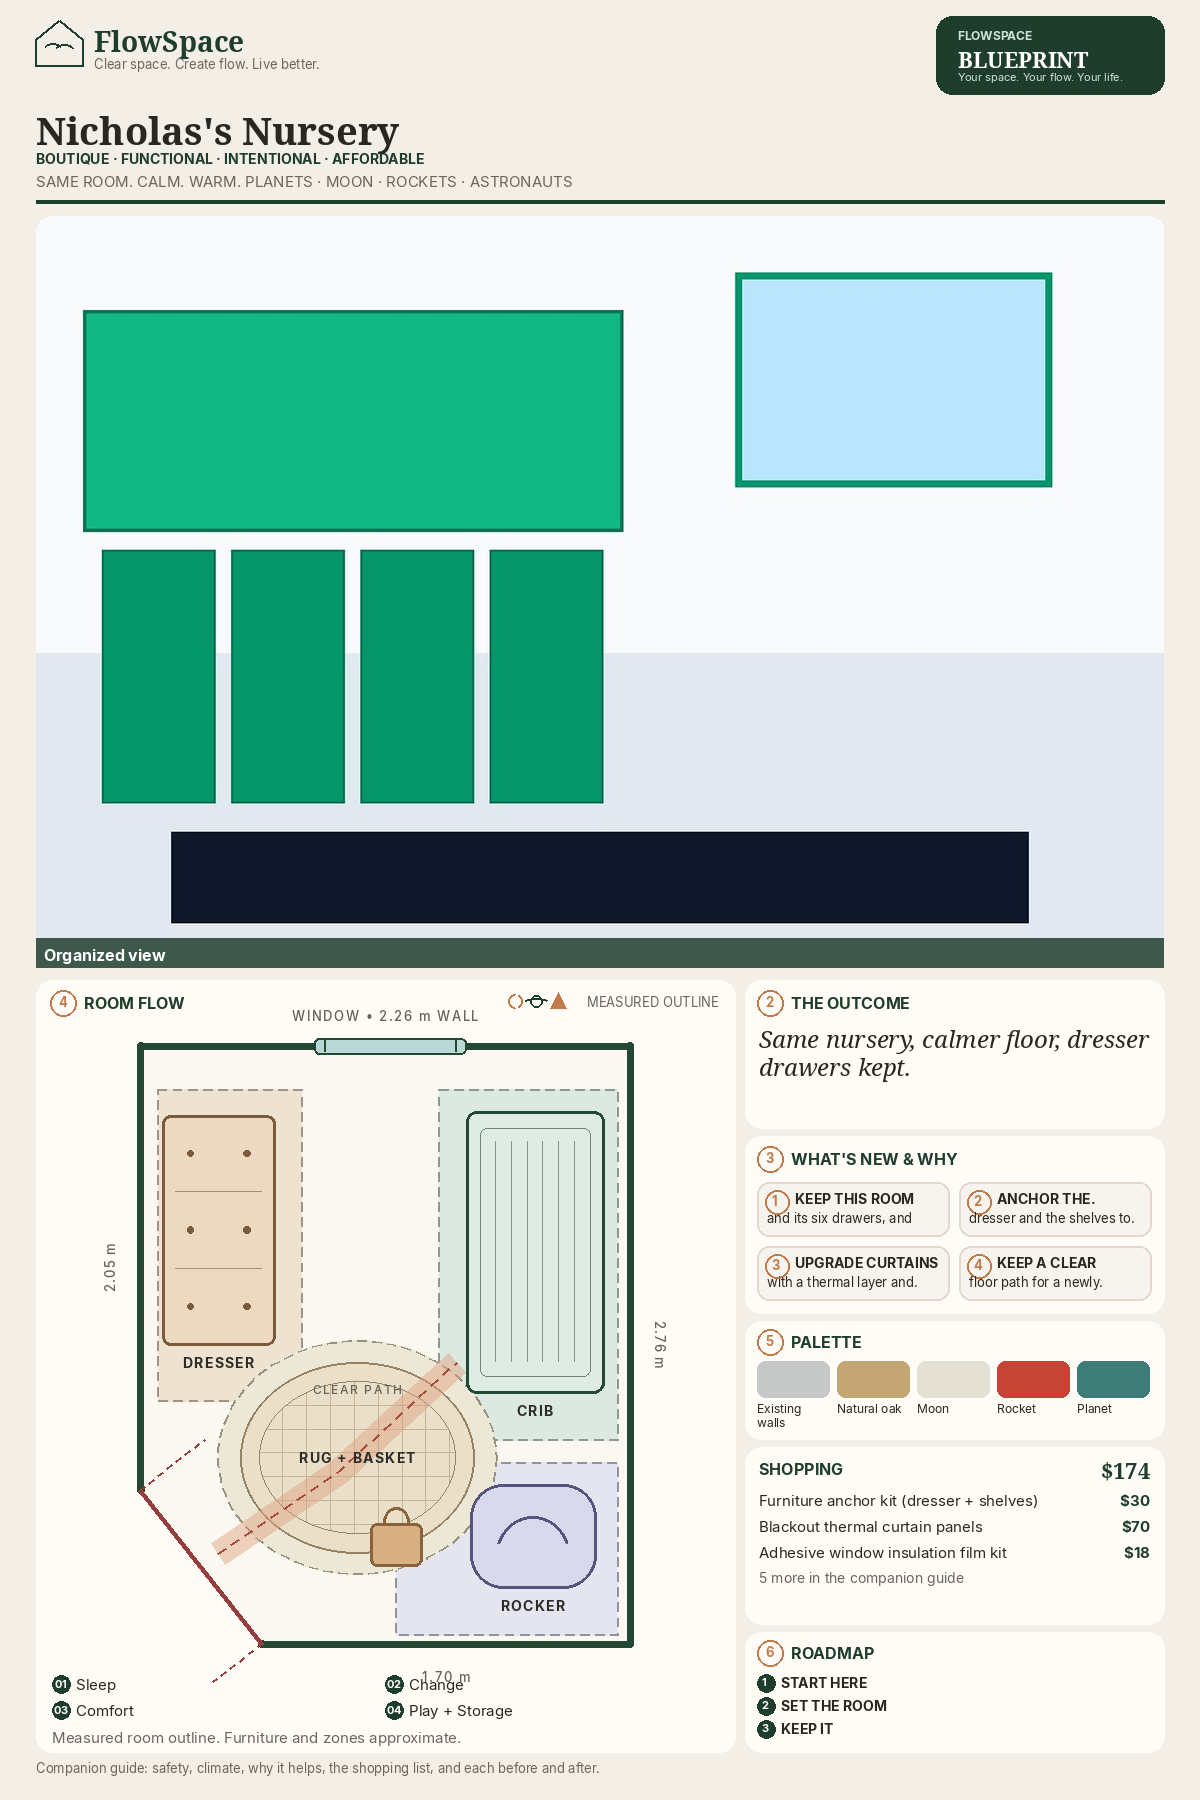
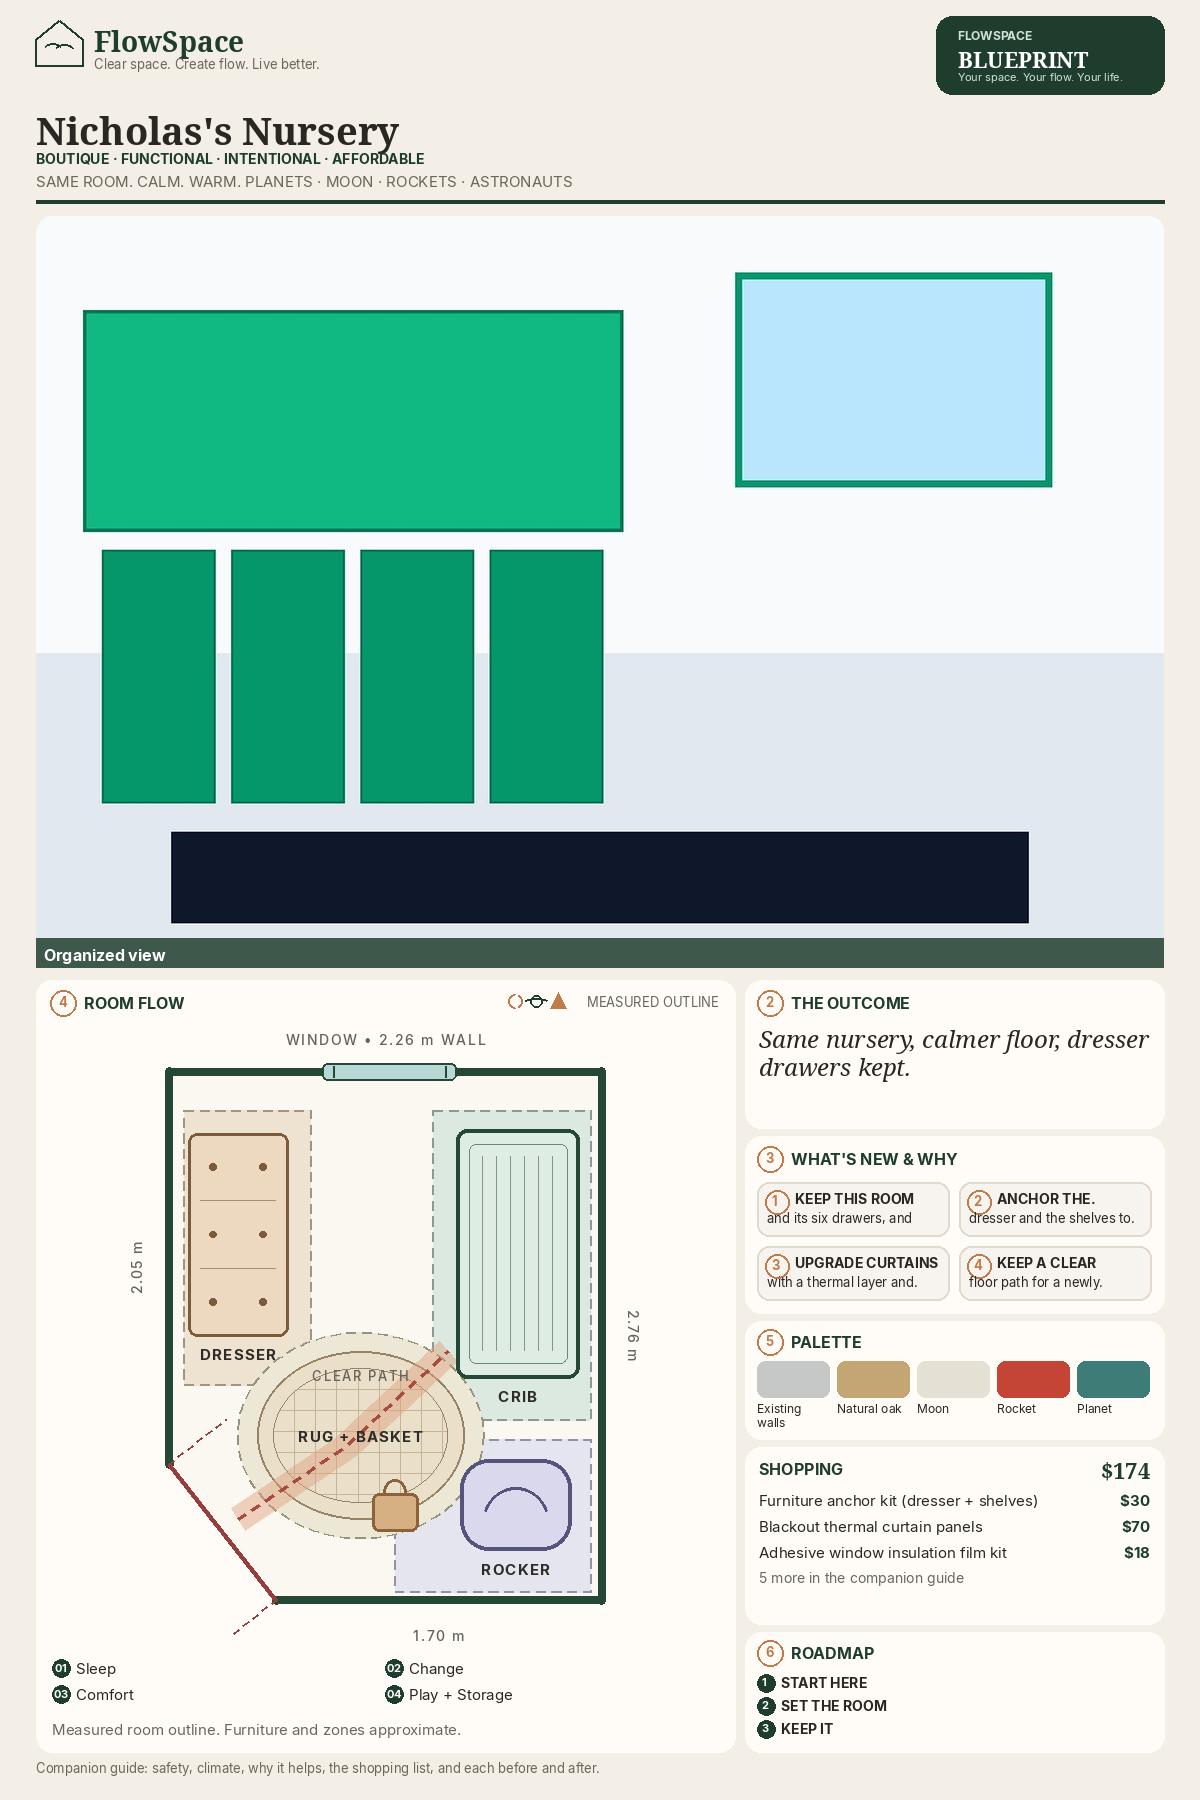
Fix board room-flow legend overlap
Keep the board room-flow wall labels inside the map and load bundled fonts so the legend and caption stay readable.

Changed region(s): [[0.0925, 0.56, 0.555, 0.9644], [0.0308, 0.9022, 0.1233, 0.9644]]

diff --git a/backend/room_flow.py b/backend/room_flow.py
@@ -737,10 +737,14 @@ def _draw_window(base: Image.Image, mp: _Mapper, flow: Dict[str, Any], u: float)
             draw.line((x, box[1] + 1.5 * u, x, box[3] - 1.5 * u), fill=WALL, width=max(1, int(1.2 * u)))
 
 
-def _draw_dimensions(base: Image.Image, mp: _Mapper, flow: Dict[str, Any], u: float, min_px: float) -> None:
+def _draw_dimensions(
+    base: Image.Image, mp: _Mapper, flow: Dict[str, Any], u: float, min_px: float
+) -> List[Tuple[float, float, float, float]]:
+    """Wall-length labels outside the outline. Returns each label's painted box."""
     outline = flow["outline"]
     draw = ImageDraw.Draw(base)
     face = font("sans-medium", max(7.5 * u, min_px))
+    boxes: List[Tuple[float, float, float, float]] = []
     for index in range(len(outline)):
         text = _wall_label(flow, index)
         if not text:
@@ -752,14 +756,36 @@ def _draw_dimensions(base: Image.Image, mp: _Mapper, flow: Dict[str, Any], u: fl
         vertical = abs(b[0] - a[0]) < abs(b[1] - a[1]) * 0.5
         offset = 18 * u if horizontal else 16 * u
         cx, cy = mid[0] + nx * offset, mid[1] + ny * offset
+        tracking = 0.9 * u if horizontal else 0.6 * u
+        half_w = _spaced_width(draw, text, face, tracking) / 2
+        half_h = face.size * 0.75
         if horizontal:
-            spaced_text(draw, (cx, cy - face.size / 2), text, face, MUTED, 0.9 * u, anchor="m")
+            spaced_text(draw, (cx, cy - face.size / 2), text, face, MUTED, tracking, anchor="m")
+            boxes.append((cx - half_w, cy - half_h, cx + half_w, cy + half_h))
         elif vertical:
             angle = 90 if nx < 0 else -90
-            _rotated_text(base, (cx, cy), text, face, MUTED, angle, 0.6 * u)
+            _rotated_text(base, (cx, cy), text, face, MUTED, angle, tracking)
             draw = ImageDraw.Draw(base)
+            boxes.append((cx - half_h, cy - half_w, cx + half_h, cy + half_w))
         else:
-            spaced_text(draw, (cx, cy - face.size / 2), text, face, MUTED, 0.6 * u, anchor="m")
+            spaced_text(draw, (cx, cy - face.size / 2), text, face, MUTED, tracking, anchor="m")
+            boxes.append((cx - half_w, cy - half_h, cx + half_w, cy + half_h))
+    return boxes
+
+
+def _label_safe_box(
+    box: Tuple[float, float, float, float], flow: Dict[str, Any], u: float, min_px: float
+) -> Tuple[float, float, float, float]:
+    """Shrink ``box`` so wall labels drawn outside the outline still land inside it."""
+    if not wall_labels(flow):
+        return box
+    size = max(7.5 * u, min_px)
+    pad_y = 18 * u + size * 0.75 + 4
+    pad_x = 16 * u + size * 0.75 + 4
+    x0, y0, x1, y1 = box
+    if x1 - x0 <= 2 * pad_x + 40 or y1 - y0 <= 2 * pad_y + 40:
+        return box
+    return (x0 + pad_x, y0 + pad_y, x1 - pad_x, y1 - pad_y)
 
 
 def _label_block(draw, center_x: float, top: float, lines: Sequence[Tuple[str, Any, Tuple[int, int, int], float]]) -> None:
@@ -830,17 +856,22 @@ def draw_floor_plan(
     *,
     compact: bool = False,
     min_px: float = 0.0,
+    contain_labels: bool = False,
 ) -> Dict[str, Any]:
     """Top-down map of ``flow`` fitted inside ``box``. Returns the fitted geometry.
 
     ``base`` must be RGBA. ``compact`` drops the zone sub-labels for small cards.
+    ``contain_labels`` keeps the wall-length labels inside ``box`` too, for a
+    card where other content sits right outside it.
     """
     outline = flow.get("outline") or []
     if len(outline) < 3:
         return {}
-    mp = _Mapper(outline, box)
     # Strokes and type are in reference pixels; the reference map box is 327 x 337.
     unit = max(0.6, min((box[2] - box[0]) / 327.0, (box[3] - box[1]) / 337.0))
+    if contain_labels:
+        box = _label_safe_box(box, flow, unit, min_px)
+    mp = _Mapper(outline, box)
     poly = [mp.pt(*p) for p in outline]
     ImageDraw.Draw(base).polygon(poly, fill=FLOOR)
     zones = list(flow.get("zones") or [])
@@ -862,8 +893,13 @@ def draw_floor_plan(
     _draw_window(base, mp, flow, unit)
     _draw_door(base, mp, flow, unit)
     _draw_labels(base, mp, flow, unit, compact, min_px)
-    _draw_dimensions(base, mp, flow, unit, min_px)
-    return {"room": tuple(int(v) for v in (min(p[0] for p in poly), min(p[1] for p in poly), max(p[0] for p in poly), max(p[1] for p in poly))), "polygon": poly, "unit": unit}
+    label_boxes = _draw_dimensions(base, mp, flow, unit, min_px)
+    return {
+        "room": tuple(int(v) for v in (min(p[0] for p in poly), min(p[1] for p in poly), max(p[0] for p in poly), max(p[1] for p in poly))),
+        "polygon": poly,
+        "unit": unit,
+        "label_boxes": label_boxes,
+    }
 
 
 # ──────────────────────────── Page ─────────────────────────────

diff --git a/backend/image_board.py b/backend/image_board.py
@@ -24,6 +24,7 @@ from __future__ import annotations
 
 import io
 import re
+from pathlib import Path
 from typing import Any, Dict, List, Optional, Sequence, Tuple
 
 from PIL import Image, ImageDraw, ImageFont, ImageOps
@@ -54,29 +55,38 @@ GREEN_SOFT = (207, 226, 215)
 CLAY = (193, 123, 74)
 WHITE = (255, 255, 255)
 
+# The slim production image has no system fonts. The bundled Inter and
+# Fraunces files keep the board off Pillow's bitmap default font.
+_BUNDLED_FONTS = str(Path(__file__).resolve().parent / "fonts")
 _FONT_PATHS = {
     "serif": (
         "/usr/share/fonts/truetype/noto/NotoSerif-Regular.ttf",
+        f"{_BUNDLED_FONTS}/Fraunces-Regular.ttf",
         "/usr/share/fonts/truetype/liberation/LiberationSerif-Regular.ttf",
     ),
     "serif-bold": (
         "/usr/share/fonts/truetype/noto/NotoSerif-Bold.ttf",
+        f"{_BUNDLED_FONTS}/Fraunces-Bold.ttf",
         "/usr/share/fonts/truetype/liberation/LiberationSerif-Bold.ttf",
     ),
     "serif-italic": (
         "/usr/share/fonts/truetype/noto/NotoSerif-Italic.ttf",
+        f"{_BUNDLED_FONTS}/Fraunces-Regular.ttf",
         "/usr/share/fonts/truetype/liberation/LiberationSerif-Italic.ttf",
     ),
     "sans": (
         "/usr/share/fonts/truetype/macos/Inter-Regular.ttf",
+        f"{_BUNDLED_FONTS}/Inter-Regular.ttf",
         "/usr/share/fonts/truetype/liberation/LiberationSans-Regular.ttf",
     ),
     "sans-medium": (
         "/usr/share/fonts/truetype/macos/Inter-Medium.ttf",
+        f"{_BUNDLED_FONTS}/Inter-Medium.ttf",
         "/usr/share/fonts/truetype/liberation/LiberationSans-Regular.ttf",
     ),
     "sans-bold": (
         "/usr/share/fonts/truetype/macos/Inter-Bold.ttf",
+        f"{_BUNDLED_FONTS}/Inter-Bold.ttf",
         "/usr/share/fonts/truetype/liberation/LiberationSans-Bold.ttf",
     ),
 }
@@ -822,8 +832,20 @@ def _draw_zone_legend(
         draw.text((x + 24, y + 1), str(item.get("name") or ""), font=name_font, fill=INK)
 
 
-def _draw_plan(base: Image.Image, box: Tuple[int, int, int, int], topdown: Dict[str, Any]) -> None:
-    """The zone-map plan of this room inside the board card."""
+def plan_card_regions(box: Tuple[int, int, int, int], topdown: Dict[str, Any]) -> Dict[str, Tuple[int, int, int, int]]:
+    """Stacked, non-overlapping regions of the room-flow card: map, legend, caption."""
+    x0, y0, x1, y1 = box
+    legend = [item for item in (topdown.get("legend") or []) if isinstance(item, dict)]
+    caption_h = 22
+    caption = (x0 + 16, y1 - 12 - caption_h, x1 - 16, y1 - 12)
+    legend_h = _legend_band_height(legend)
+    legend_box = (x0 + 16, caption[1] - 8 - legend_h, x1 - 16, caption[1] - 8)
+    plan_bottom = (legend_box[1] if legend_h else caption[1]) - 10
+    return {"plan": (x0 + 16, y0 + 44, x1 - 16, plan_bottom), "legend": legend_box, "caption": caption}
+
+
+def _draw_plan(base: Image.Image, box: Tuple[int, int, int, int], topdown: Dict[str, Any]) -> Dict[str, Any]:
+    """The zone-map plan of this room inside the board card. Returns the drawn geometry."""
     draw = ImageDraw.Draw(base)
     _rounded(draw, box, 16, CARD)
     x0, y0, x1, y1 = box
@@ -835,16 +857,20 @@ def _draw_plan(base: Image.Image, box: Tuple[int, int, int, int], topdown: Dict[
     if topdown.get("space_theme"):
         _draw_space_glyphs(draw, x1 - 16 - aw - 78, y0 + 12)
     legend = [item for item in (topdown.get("legend") or []) if isinstance(item, dict)]
-    legend_h = _legend_band_height(legend)
-    flow = topdown.get("room_flow") or {}
-    draw_floor_plan(base, (x0 + 44, y0 + 66, x1 - 44, y1 - 56 - legend_h), flow, compact=True, min_px=12)
+    regions = plan_card_regions(box, topdown)
+    geo = draw_floor_plan(
+        base, regions["plan"], topdown.get("room_flow") or {}, compact=True, min_px=12, contain_labels=True
+    )
     draw = ImageDraw.Draw(base)
     if legend:
-        _draw_zone_legend(draw, (x0 + 16, y1 - 26 - legend_h, x1 - 16, y1 - 26), legend)
+        _draw_zone_legend(draw, regions["legend"], legend)
     caption = str(topdown.get("board_caption") or "")
-    fitted = _fit(draw, caption, _font("sans", 15), x1 - x0 - 32, 1)
+    cap_font = _font("sans", 15)
+    cx0, cy0, cx1, _cy1 = regions["caption"]
+    fitted = _fit(draw, caption, cap_font, cx1 - cx0, 1)
     if fitted:
-        draw.text((x0 + 16, y1 - 24), fitted[0], font=_font("sans", 15), fill=MUTED)
+        draw.text((cx0, cy0 + 2), fitted[0], font=cap_font, fill=MUTED)
+    return {**(geo or {}), "regions": regions}
 
 
 def _draw_moves(draw: ImageDraw.ImageDraw, box: Tuple[int, int, int, int], moves: Sequence[Dict[str, str]]) -> None:

diff --git a/backend/tests/test_image_board.py b/backend/tests/test_image_board.py
@@ -4,7 +4,7 @@ import json
 import re
 from pathlib import Path
 
-from PIL import Image, ImageDraw
+from PIL import Image, ImageDraw, ImageFont
 from pypdf import PdfReader
 
 from blueprint_presentation import build_presentation
@@ -498,3 +498,53 @@ def test_nursery_companion_reflow_keeps_photo_pages_and_drops_blank_ones():
         colors = [img.image.convert("RGB").resize((1, 1)).getpixel((0, 0)) for img in page.images]
         assert sum(_near(c, (140, 40 + index * 20, 40), tol=12) for c in colors) == 1
         assert sum(_near(c, (20, 80 + index * 10, 90), tol=12) for c in colors) == 1
+
+
+def _overlap(a, b) -> bool:
+    return a[0] < b[2] and b[0] < a[2] and a[1] < b[3] and b[1] < a[3]
+
+
+def test_room_flow_card_wall_labels_clear_the_legend_and_caption():
+    """Live board drew "1.70 m" on top of "02 Change"."""
+    from image_board import _draw_plan
+
+    lead, deliverable = _load()
+    topdown = board_spec(lead, deliverable, {})["topdown"]
+    for box in (
+        (36, 1237, 735, 1752),
+        (36, 1292, 757, 1752),
+        (36, 708, 735, 1752),
+        (36, 1380, 1164, 1752),
+        (36, 1300, 1164, 1752),
+        (36, 1440, 640, 1752),
+    ):
+        canvas = Image.new("RGBA", (1200, 1800), (243, 238, 230, 255))
+        geo = _draw_plan(canvas, box, topdown)
+        regions = geo["regions"]
+        assert not _overlap(regions["legend"], regions["caption"])
+        assert regions["plan"][3] <= regions["legend"][1]
+        assert len(geo["label_boxes"]) == 4
+        for label in geo["label_boxes"]:
+            px0, py0, px1, py1 = regions["plan"]
+            assert px0 - 1 <= label[0] and label[2] <= px1 + 1, (box, label)
+            assert py0 - 1 <= label[1] and label[3] <= py1 + 1, (box, label)
+            assert not _overlap(label, regions["legend"]), (box, label)
+            assert not _overlap(label, regions["caption"]), (box, label)
+
+
+def test_board_fonts_do_not_fall_back_to_the_bitmap_default(monkeypatch):
+    """The slim production image has no system fonts; the bundled files must load."""
+    import image_board
+
+    bundled_only = {
+        kind: tuple(path for path in paths if not path.startswith("/usr/share/fonts"))
+        for kind, paths in image_board._FONT_PATHS.items()
+    }
+    monkeypatch.setattr(image_board, "_FONT_PATHS", bundled_only)
+    monkeypatch.setattr(image_board, "_fonts", {})
+    for kind in bundled_only:
+        face = image_board._font(kind, 15)
+        assert isinstance(face, ImageFont.FreeTypeFont), kind
+    probe = ImageDraw.Draw(Image.new("RGB", (10, 10)))
+    face = image_board._font("sans", 15)
+    assert probe.textlength("zones approximate", font=face) > probe.textlength("zonesapproximate", font=face) + 2
